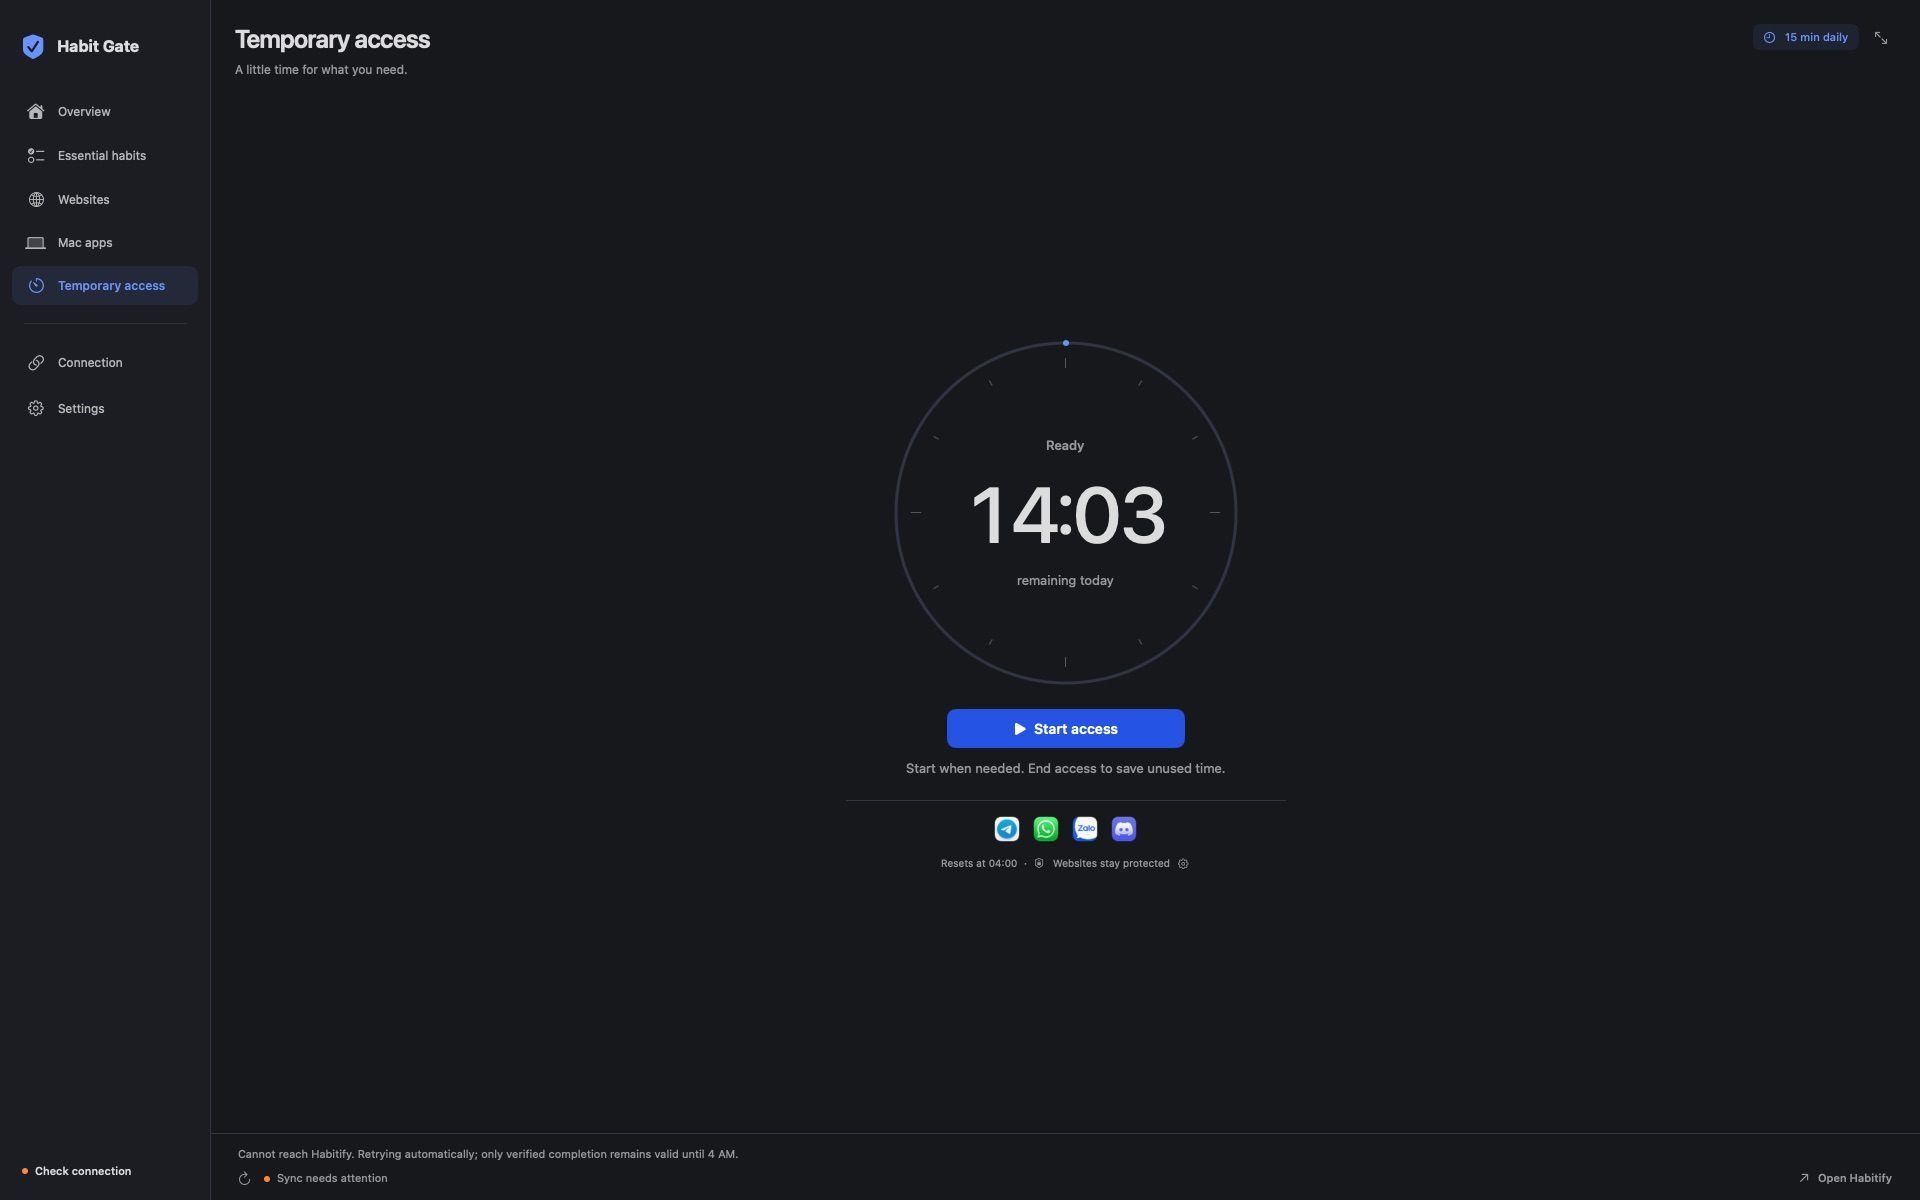
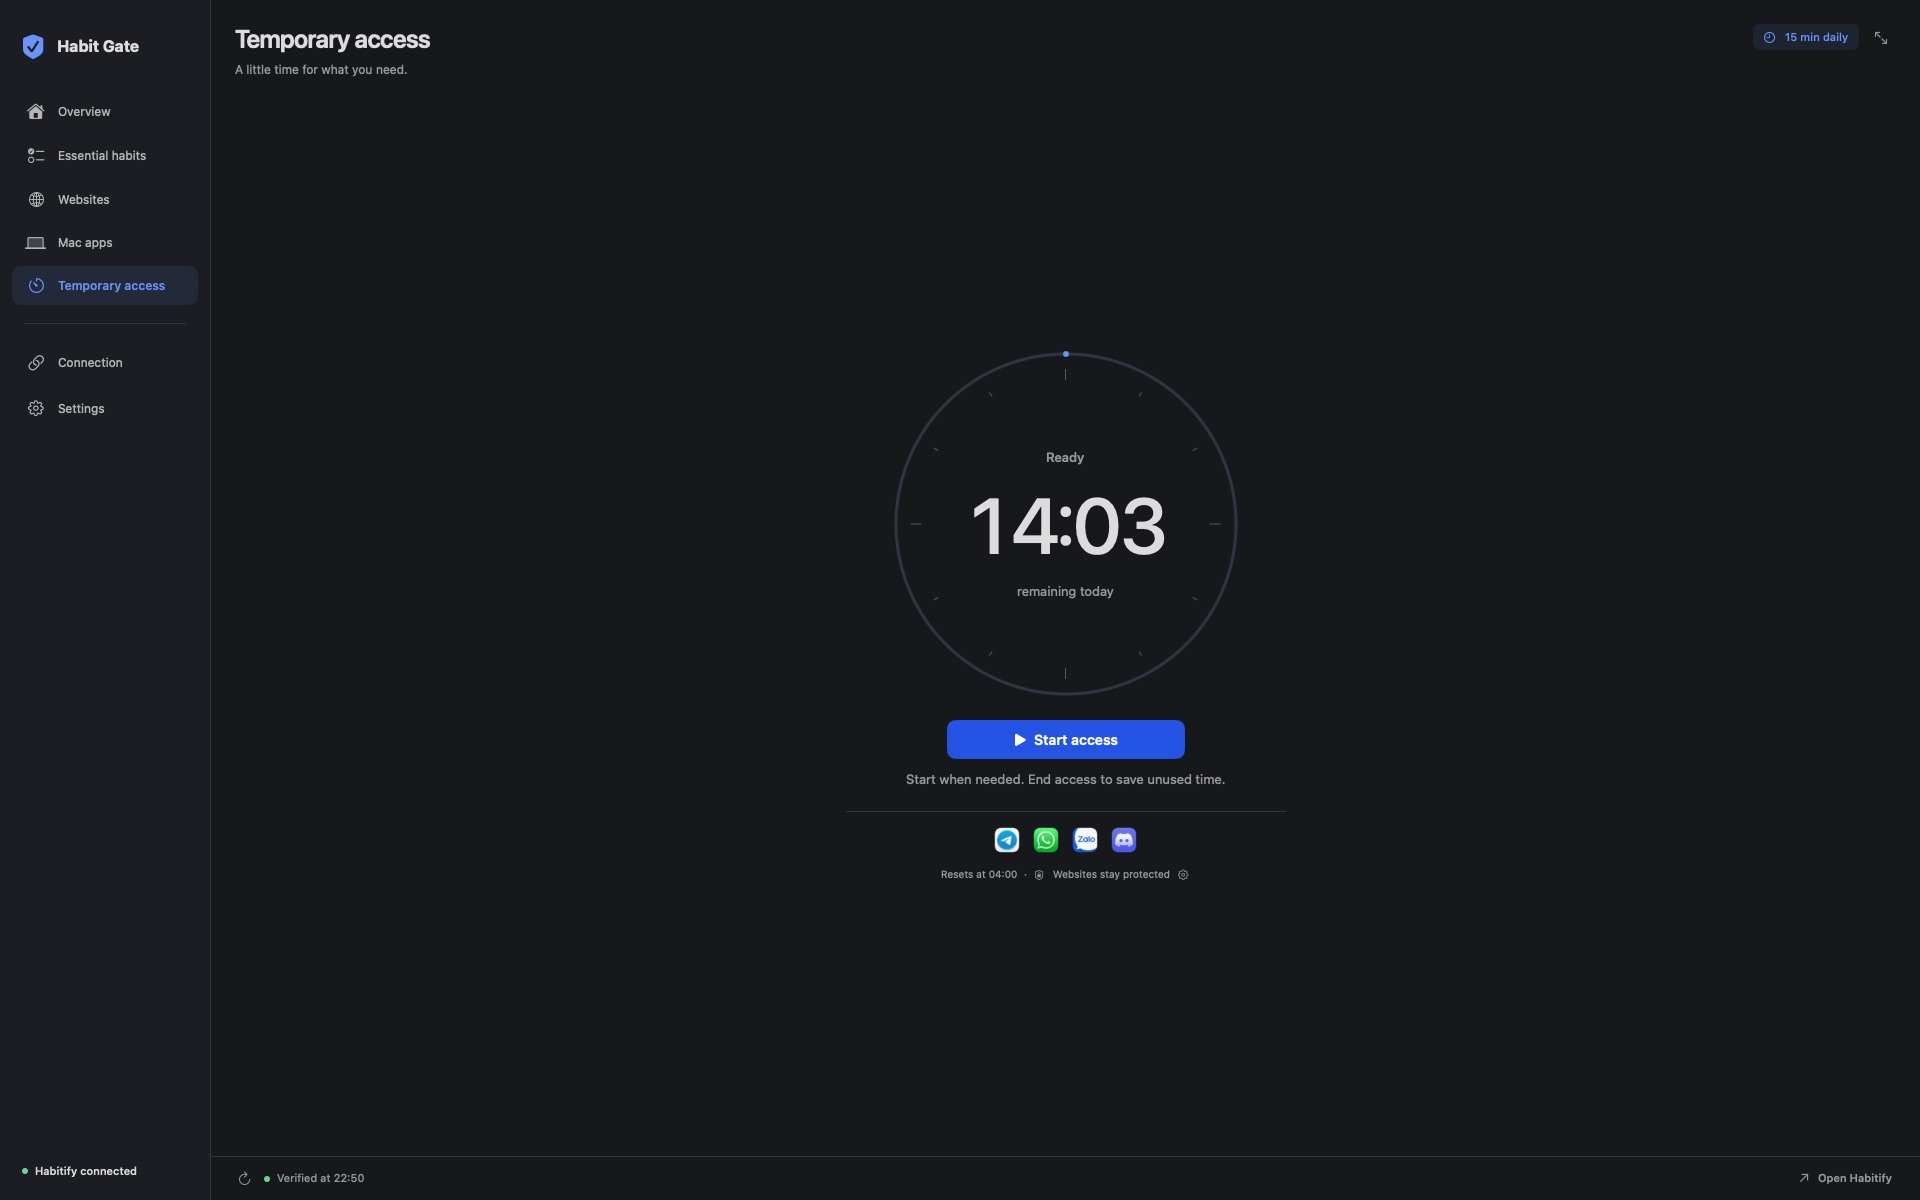
Record recovered sync and final full-screen screenshot

diff --git a/VALIDATION.md b/VALIDATION.md
@@ -268,3 +268,5 @@ The timer presentation follows a new built-in imagegen concept. The enclosing ca
 The layout removes the Temporary access width cap, bounds the dial to 220–340 points and centers the timer, primary action, caption, icons and metadata as one group. The main window explicitly supports full screen/tiling, remembers its frame and initially fills the visible screen area. The header action targets the owning window through the app delegate. Native green-button entry, header entry/exit and keyboard entry were checked in an isolated native fixture.
 
 All 91 Swift tests pass and the release build succeeds. Daily accounting and enforcement are unchanged. Installed identity, preserved settings, installed full-screen state and layout screenshots are recorded in [validation/responsive-access-1.5.4.json](validation/responsive-access-1.5.4.json). No new resource benchmark or full VoiceOver audit was performed.
+
+The installed 1.5.4 app completed a fresh Habitify sync after local Keychain approval and automatic recovery from the earlier network failure. The final full-screen screenshot shows the connected state; temporary access remains off and its unused balance is preserved.
